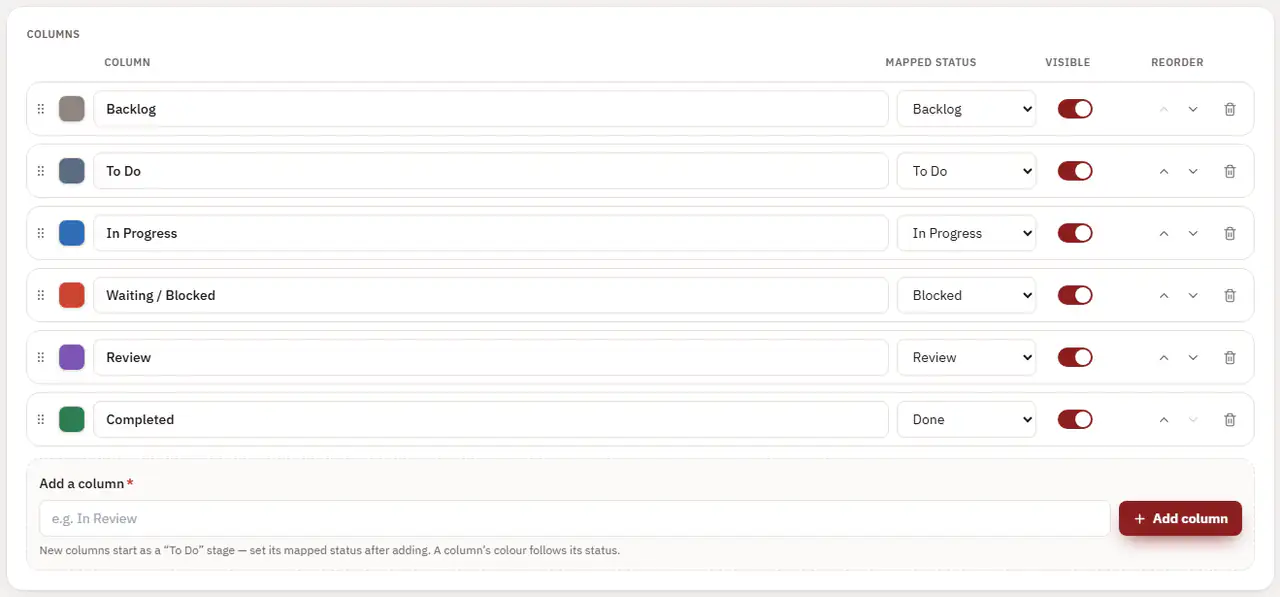
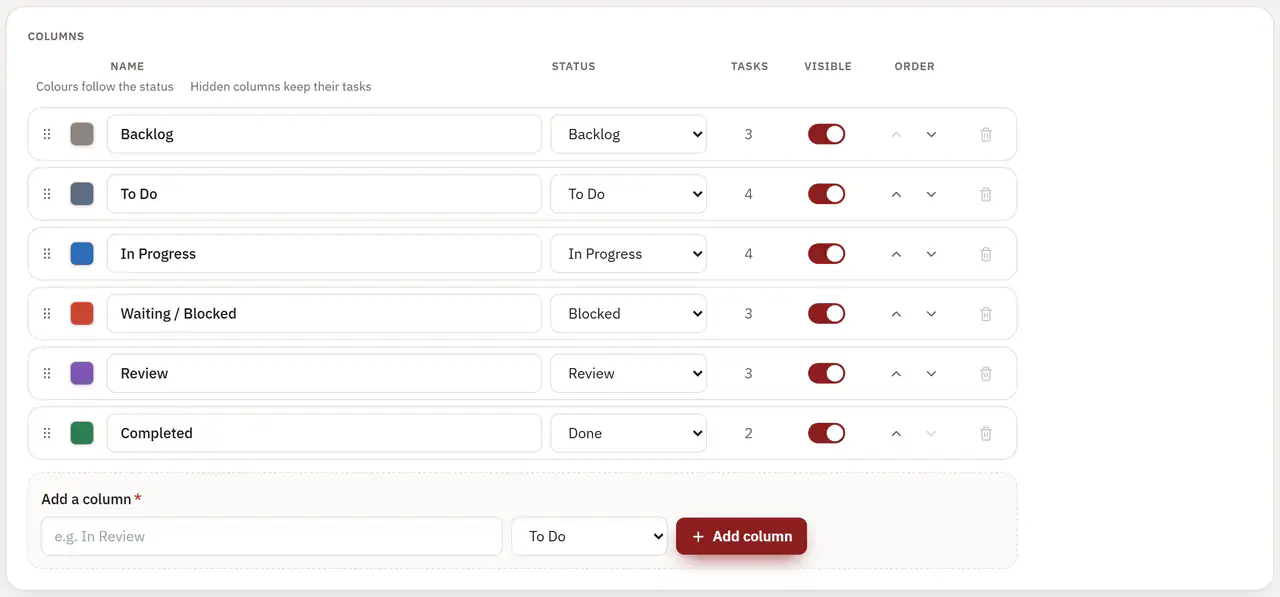
Learning Hub: Change the columns picture retaken on the compact Manage columns table, starter revision 6 (1.24.5)

diff --git a/Web Portal/backend/src/modules/training/starter/starter-courses.test.ts b/Web Portal/backend/src/modules/training/starter/starter-courses.test.ts
@@ -1,5 +1,6 @@
 import { describe, expect, it } from 'vitest';
 import { readdirSync, readFileSync } from 'node:fs';
+import { createHash } from 'node:crypto';
 import { extname, join, resolve } from 'node:path';
 import sharp from 'sharp';
 import { LEGACY_STARTER_KEYS, RETIRED_VIDEO_COURSES, SHORT_COURSE_MODULES, STARTER_COURSES, STARTER_REVISION, USER_TRAINING_KEY } from './starter-courses';
@@ -88,9 +89,9 @@ const plain = (lessons: readonly StarterLesson[], extra: string[] = []): string 
     .replace(/&amp;/g, '&');
 const courseText = (c: StarterCourse) => plain(c.lessons, [c.title, c.summary, ...(c.modules ?? []).map((m) => m.title)]);
 
-describe('starter content (revision 3, 4, 5): the two built-in courses', () => {
+describe('starter content (revision 3, 4, 5, 6): the two built-in courses', () => {
   it('revision 3: the combined staff course first (position -1), then the client guide; stable unique keys', () => {
-    expect(STARTER_REVISION).toBe(5);
+    expect(STARTER_REVISION).toBe(6);
     expect(USER_TRAINING_KEY).toBe('starter:user-training');
     expect(STARTER_COURSES.map((c) => c.key)).toEqual(KEYS);
     expect(training().position).toBe(-1);
@@ -564,6 +565,30 @@ describe('starter content revision 5: pictures for the steps that had none', () 
     expect(alt('admin-deactivate.webp')).toMatch(/Deactivate/);
     expect(alt('admin-logs.webp')).toMatch(/Audit Logs/);
     expect(alt('portal-notices.webp')).toMatch(/Change password/);
+  });
+});
+
+/**
+ * 1.24.5 (revision 6): "Change the columns" showed the Manage columns panel from before 1.23.37's compact table. Retaken
+ * on v1.24.4 at the old file's size (recipe: .superpowers/s5/starter/capture-starter.mjs, `webp-fit`); the revision
+ * brings it to sites whose built-in course nobody edited.
+ */
+describe('starter content revision 6: the Manage columns picture shows the compact table', () => {
[1 lines of base64/hex data omitted]
+
+  it('board-columns.webp is a new picture at the old one’s size (1280×597 WebP)', async () => {
+    const content = readFileSync(join(ASSETS, 'board-columns.webp'));
+    expect(createHash('sha256').update(content).digest('hex')).not.toBe(OLD_PANEL_SHA256);
+    const meta = await sharp(content).metadata();
+    expect([meta.format, meta.width, meta.height]).toEqual(['webp', 1280, 597]);
+  });
+
+  it('its description says what the table shows: name, status, how many tasks, Visible, order, and Add a column', () => {
+    const step = steps(training()).find((s) => s.image === 'board-columns.webp')!;
+    expect(step.title).toBe('Change the columns');
+    expect(step.alt).toMatch(/table/);
+    expect(step.alt).toMatch(/how many tasks/);
+    expect(step.alt).not.toMatch(/mapped status/);
   });
 });
 

diff --git a/Web Portal/backend/src/modules/training/starter/starter-courses.ts b/Web Portal/backend/src/modules/training/starter/starter-courses.ts
@@ -19,8 +19,9 @@ import type { StarterCourse, StarterLesson, StarterModule, StarterQuestion } fro
  * Raised whenever this content changes, so sites update the starter courses nobody edited (R1). 4 (1.23.33): the
  * pictures retaken with sample names only, and the words checked against the site of 1.23.32.
  * 5 (1.23.36): pictures for the steps that had none (where a real screen exists).
+ * 6 (1.24.5): "Change the columns" retaken on the compact Manage columns table (1.23.37).
  */
-export const STARTER_REVISION = 5;
+export const STARTER_REVISION = 6;
 
 /** 1.23.30: the one staff course, "MICO360 Tasks User Training" (its starter key). */
 export const USER_TRAINING_KEY = 'starter:user-training';
@@ -380,7 +381,7 @@ const board: StarterLesson[] = [
         title: 'Change the columns',
         body: '<p>Project managers and administrators see <strong>Manage columns</strong>. There you can rename, reorder, hide or add columns, and choose the status each column stands for. Click <strong>Done</strong> when you finish.</p>',
         image: 'board-columns.webp',
-        alt: 'The Columns panel: each column with its name, mapped status, a Visible switch and reorder arrows, and the Add a column box below.',
+        alt: 'The Columns table: each column’s name, its status, how many tasks it holds, a Visible switch and order arrows, and the Add a column box (a name and a status) below.',
       },
     ],
   },

diff --git a/CHANGELOG.md b/CHANGELOG.md
@@ -15,6 +15,7 @@ version (see [docs/RELEASES.md](docs/RELEASES.md)). Security entries are shown t
 ## [Unreleased]
 
 ### Bug fixes
+- Learning Hub: the "Change the columns" picture in MICO360 Tasks User Training showed the old Manage columns panel. It is retaken on today's compact table (Name, Status, Tasks, Visible, order), with sample data only, and its description matches it. Sites whose built-in course nobody edited get the new picture when they update.
 - Client portal: opening a task or meeting that a notification is about — or acting on it (a comment, Accept, Send back, an upload, a download, an RSVP, Mark done) — now marks that notification read, so the bell's count goes down at once, as it does for staff. Before, it stayed unread unless the client opened it from the Notifications list. Preview as client still changes nothing.
 - Audit Logs: saving a person in User Management records only what really changed, as before → after (for example "lastName: A → Ahmed"). A Save that only changes the account status no longer adds an entry listing every field; the status entry itself now reads "status: Active → Suspended" style, before → after.
 
